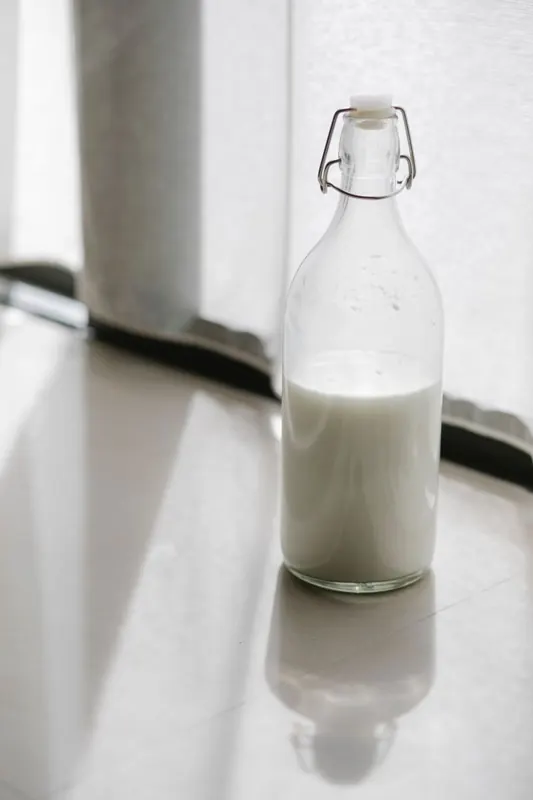
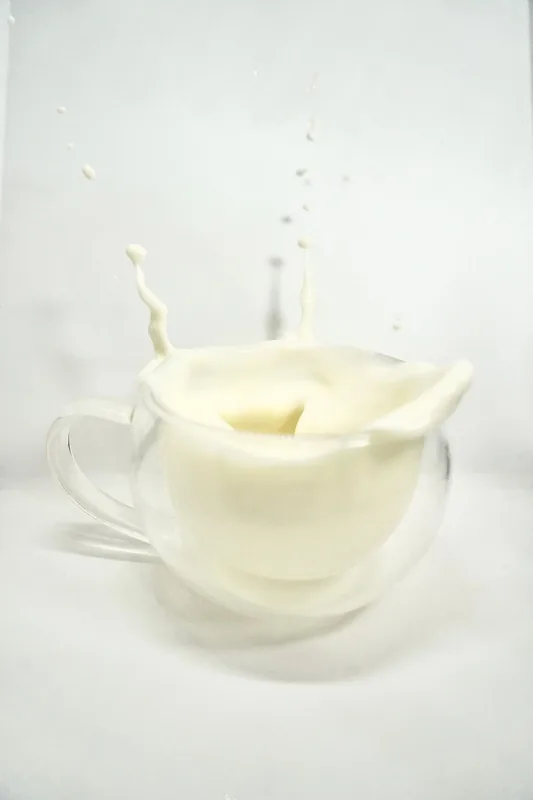
Improve water milk and laundry product photography

diff --git a/src/assets/images/market/README.md b/src/assets/images/market/README.md
@@ -4,7 +4,7 @@ New editorial stock photographs for the November 2026 visual redesign. All photo
 
 ## License and source
 
-All images below were selected from Pexels free stock photo pages on 2026-11-02 and are covered by the [Pexels License](https://www.pexels.com/license/). Pexels confirms [free use for personal and commercial projects](https://help.pexels.com/hc/en-us/articles/360042295214-Can-I-use-the-photos-and-videos-for-a-commercial-project) and [optional attribution](https://help.pexels.com/hc/en-us/articles/360042295174-What-is-the-license-of-the-photos-and-videos-on-Pexels). Photographer and source-page credits are retained below and in `asset-sources.json`.
+All images below were selected from Pexels free stock photo pages in November 2026 and are covered by the [Pexels License](https://www.pexels.com/license/). Pexels confirms [free use for personal and commercial projects](https://help.pexels.com/hc/en-us/articles/360042295214-Can-I-use-the-photos-and-videos-for-a-commercial-project) and [optional attribution](https://help.pexels.com/hc/en-us/articles/360042295174-What-is-the-license-of-the-photos-and-videos-on-Pexels). Photographer and source-page credits are retained below and in `asset-sources.json`.
 
 The files are stock illustrations of food and everyday products. They do not depict actual Urbanfood stock, staff, facilities, or product packaging. No identifiable faces are used. Existing product-page wording identifies the photos as illustrative.
 
@@ -14,7 +14,7 @@ The files are stock illustrations of food and everyday products. They do not dep
 - Converted to WebP using Pillow; no generated imagery or branded product cutouts.
 - Catalog photographs have a maximum edge of 640–800 px; editorial photographs have a maximum edge of 1200–1600 px.
 - All 55 photographs visually checked; the two dedicated category thumbnails are also checked in desktop and mobile card crops.
-- No image exceeds 140 KB; total photographic payload is about 1.9 MB across the whole catalog and all pages.
+- No image exceeds 140 KB; total photographic payload is about 2 MB across the whole catalog and all pages.
 - `src/data/marketPhotography.js` maps 26 categories, 55 stable product IDs, and six editorial placements to these files. Related products may share a thematically appropriate photograph.
 - Category thumbnails should show recognizable ingredients or a prepared drink, with a clear subject that remains visible in both landscape and near-square crops. Avoid empty vessels and incidental kitchen snapshots.
 
@@ -46,9 +46,9 @@ The files are stock illustrations of food and everyday products. They do not dep
 | `khinkali.webp`          | Nadin Sh            | [Photo 17146254](https://www.pexels.com/photo/close-up-of-georgian-khinkali-17146254/)                                          | 600 × 800   |     18,278 |
 | `kitchen-hands.webp`     | cottonbro studio    | [Photo 4057678](https://www.pexels.com/photo/food-hands-chef-kitchen-4057678/)                                                  | 933 × 1400  |    102,698 |
 | `kyiv-chicken.webp`      | Shameel mukkath     | [Photo 10296276](https://www.pexels.com/photo/a-chicken-kiev-with-white-sauce-on-a-ceramic-plate-10296276/)                     | 800 × 533   |     42,344 |
-| `laundry.webp`           | Ron Lach            | [Photo 10557899](https://www.pexels.com/photo/hands-holding-cleaning-product-and-brush-10557899/)                               | 800 × 533   |      7,538 |
+| `laundry.webp` | Ron Lach | [Photo 10566522](https://www.pexels.com/photo/close-up-view-of-plastic-bottle-in-laundry-basket-10566522/) | 800 × 533 | 33,482 |
 | `market-bag.webp`        | Sarah Chai          | [Photo 7262897](https://www.pexels.com/photo/crop-unrecognizable-woman-carrying-bag-with-organic-vegetables-in-garden-7262897/) | 1600 × 1067 |    102,262 |
-| `milk.webp`              | Charlotte May       | [Photo 5946755](https://www.pexels.com/photo/glass-bottle-with-milk-on-table-5946755/)                                          | 533 × 800   |      9,542 |
+| `milk.webp` | Josephine | [Photo 7429050](https://www.pexels.com/photo/a-glass-cup-with-milk-on-white-surface-7429050/) | 533 × 800 | 6,598 |
 | `minced-meat.webp`       | Eva Bronzini        | [Photo 7225724](https://www.pexels.com/photo/close-up-photo-of-minced-meat-in-a-bowl-7225724/)                                  | 533 × 800   |     30,124 |
 | `nuts.webp`              | Engin Akyurt        | [Photo 5472169](https://www.pexels.com/photo/flatlay-of-assorted-nuts-on-black-bowl-5472169/)                                   | 800 × 533   |     21,382 |
 | `oil.webp`               | Valeria Boltneva    | [Photo 20184699](https://www.pexels.com/photo/bottle-of-olive-oil-20184699/)                                                    | 534 × 800   |     21,524 |
@@ -72,7 +72,7 @@ The files are stock illustrations of food and everyday products. They do not dep
 | `tomato-sauce.webp`      | Valentina Sergi     | [Photo 36546509](https://www.pexels.com/photo/homemade-tomato-sauce-canning-process-36546509/)                                  | 534 × 800   |     27,848 |
 | `varenyky.webp`          | kaboompics.com      | [Photo 4084933](https://www.pexels.com/photo/freshly-made-pierogi-4084933/)                                                     | 533 × 800   |     44,636 |
 | `vegetables.webp`        | IARA MELO           | [Photo 30635690](https://www.pexels.com/photo/colorful-vegetable-medley-in-white-bowl-30635690/)                                | 800 × 514   |     67,368 |
-| `water.webp`             | cottonbro studio    | [Photo 4057746](https://www.pexels.com/photo/a-bottle-and-glass-on-table-4057746/)                                              | 533 × 800   |     31,532 |
+| `water.webp` | Bogdan Giurca | [Photo 22431052](https://www.pexels.com/photo/pouring-water-in-glass-22431052/) | 689 × 800 | 29,510 |
 | `white-pump.webp`        | Mikhail Nilov       | [Photo 7814990](https://www.pexels.com/photo/white-cosmetic-plastic-pump-bottle-with-beige-background-7814990/)                 | 534 × 800   |      9,836 |
 | `wine.webp`              | Nicole Queiroz      | [Photo 10772487](https://www.pexels.com/photo/a-bottle-and-glass-of-red-wine-on-a-table-10772487/)                              | 533 × 800   |     18,674 |
 | `category-drinks.webp` | Lukas Blazek | [Photo 298720](https://www.pexels.com/photo/lemon-juice-in-cup-298720/) | 800 × 530 | 19,830 |

diff --git a/README.md b/README.md
@@ -57,7 +57,7 @@ ESLint також перевіряє статичні звернення до к
 
 Редизайн від 2026-11-02: теплий світлий фон, глибокий зелений, помаранчеві акценти, природна предметна фотографія та єдина типографічна ієрархія. Основний текст — Manrope, редакційні заголовки — Lora; дрібні інтерфейсні підписи не менші за 12px при стандартному розмірі шрифту браузера.
 
-- 55 локальних фото Pexels у `src/assets/images/market/` займають 1 938 608 байт. Максимальний файл — близько 136 КБ. Для плиток напоїв і молочних продуктів використовуються окремі композиції.
+- 55 локальних фото Pexels у `src/assets/images/market/` займають 1 959 586 байт. Максимальний файл — близько 136 КБ. Для плиток напоїв і молочних продуктів використовуються окремі композиції.
 - Карти `src/data/marketPhotography.js` пов'язують зображення з 26 категоріями, 55 товарами та редакційними блоками. Фото ілюстративні; споріднені товари можуть використовувати той самий кадр.
 - [Джерела та фотографи](src/assets/images/market/README.md) і `asset-sources.json` містять атрибуцію та посилання на ліцензію Pexels.
 - Старі растрові банери, колажі категорій, 3D-іконки вакансій та Inter видалені. У бренді використано SVG-знак і текстовий логотип; затверджений фавікон збережений.
